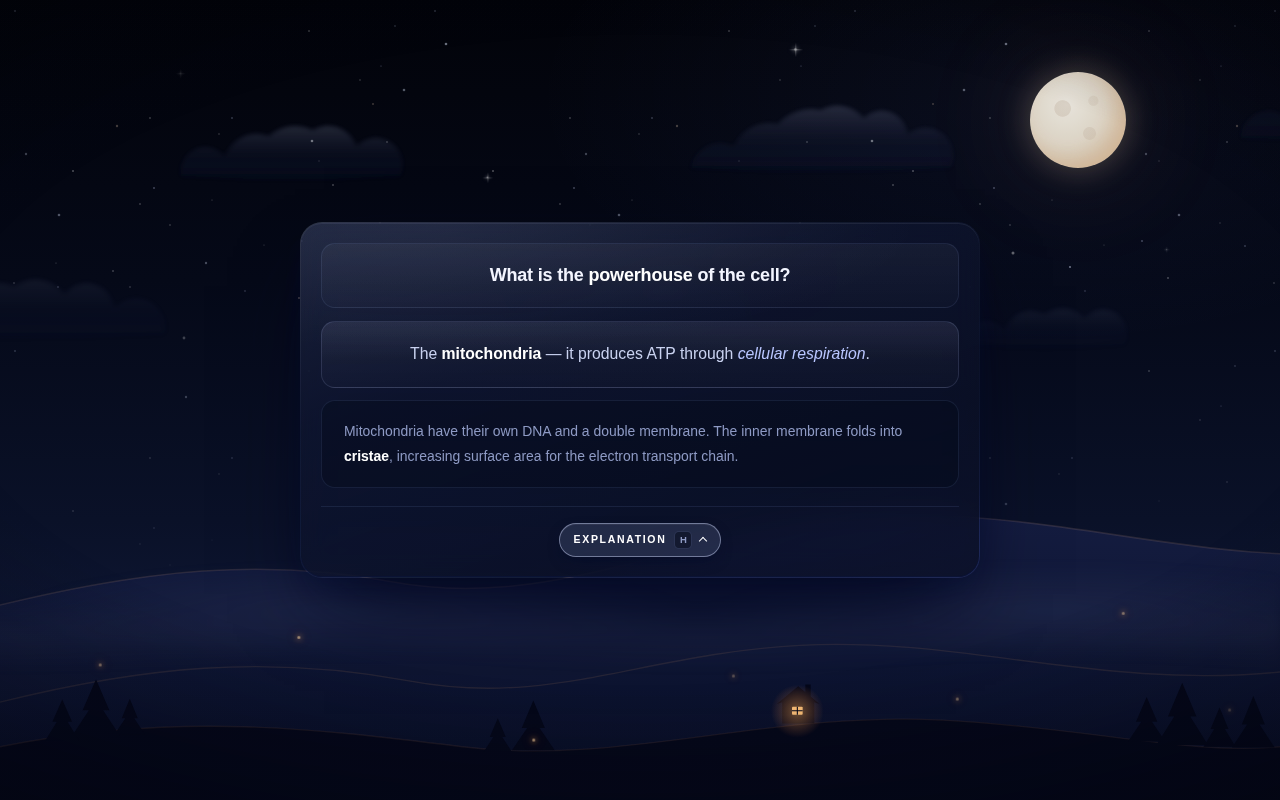
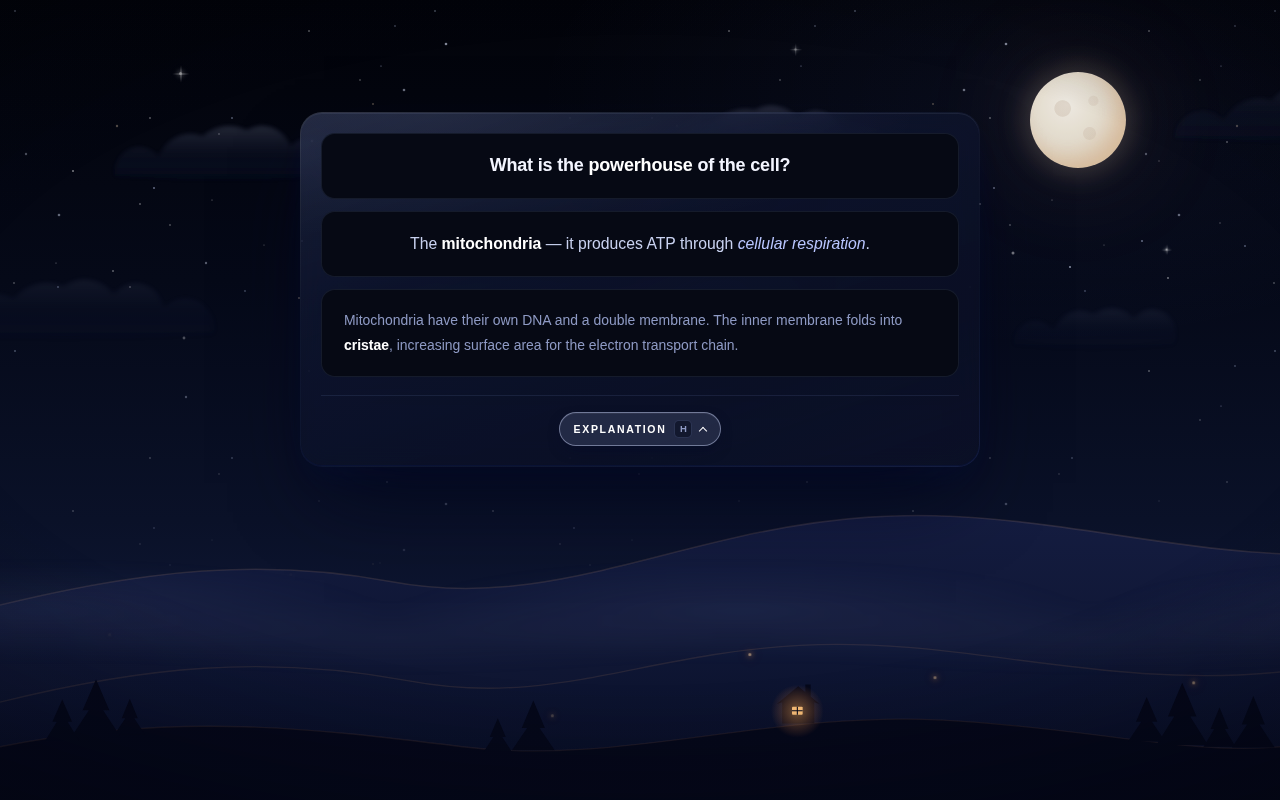
Flat dark content boxes and smoother front-to-back flip
- Question, answer and explanation boxes use one flat dark fill.
- Background scene is moved out of the card container on first render
  and reused, so it no longer restarts or jumps when Anki swaps sides.
- Card is top-anchored so the question stays still while the answer
  opens below it; softer reveal easing; explanation button fades in
  instead of popping.

Claude-Session: https://claude.ai/code/session_01GeAXbBMqDku8YSU6JA8Q3r

Changed region(s): [[0.1562, 0.125, 0.75, 0.4688], [0.2812, 0.5, 0.7188, 0.5938], [0.4375, 0.625, 0.5625, 0.7188]]

diff --git a/styling.css b/styling.css
@@ -38,7 +38,7 @@
   --glass-strong: rgba(8, 12, 30, 0.78);
   --line:         rgba(160, 182, 255, 0.10);
   --line-strong:  rgba(160, 182, 255, 0.18);
-  --block:        rgba(255, 255, 255, 0.035);
+  --block:        #060914;   /* flat fill for question / answer / explanation */
 
   /* Shadows (blue-tinted, never pure black) */
   --shadow-lg: 0 40px 80px -24px rgba(2, 6, 28, 0.9),
@@ -49,6 +49,7 @@
   --radius-lg: 22px;
   --radius-md: 14px;
   --ease-out:  cubic-bezier(0.2, 0.8, 0.2, 1);
+  --ease-soft: cubic-bezier(0.22, 1, 0.36, 1);   /* ease-out-quint */
 
   --font-ui: 'Inter', 'Apple SD Gothic Neo', 'Malgun Gothic', -apple-system,
              BlinkMacSystemFont, 'Segoe UI', Roboto, sans-serif;
@@ -77,13 +78,15 @@ html {
   display: flex;
   flex-direction: column;
   align-items: center;
-  justify-content: center;
+  justify-content: flex-start;
   width: 100% !important;
   max-width: 100vw !important;
   min-height: 100vh;
   min-height: 100dvh;
   margin: 0;
-  padding: 24px 16px !important;
+  /* Top-anchored (not vertically centred) so the question stays exactly
+     where it is when the back side adds the answer below it. */
+  padding: clamp(20px, 14vh, 150px) 16px 32px !important;
   background: transparent !important;
   border: none !important;
   box-shadow: none !important;
@@ -104,7 +107,7 @@ img { max-width: 100%; height: auto; border-radius: 10px; }
 #gm-scene {
   position: fixed;
   inset: 0;
-  z-index: 0;
+  z-index: -1;
   overflow: hidden;
   pointer-events: none;
   background:
@@ -114,6 +117,12 @@ img { max-width: 100%; height: auto; border-radius: 10px; }
     radial-gradient(55% 45% at 80% 12%, rgba(110, 140, 255, 0.06), transparent 70%),
     linear-gradient(180deg, #020309 0%, #050918 35%, #0a1128 65%, #111a3a 88%, #181f45 100%);
 }
+
+/* The template script moves the first scene out of the card container
+   and keeps it alive across flips and cards (see front/back.html).
+   It sits above any freshly rendered copy, so a flip never shows a
+   restarted sky, even for the single frame before the script runs. */
+#gm-scene.gm-scene-live { z-index: 0; }
 
 /* Every scene animation shares one global clock (set by the template
    script) so the sky never "jumps" when Anki flips front → back. */
@@ -331,7 +340,7 @@ img { max-width: 100%; height: auto; border-radius: 10px; }
   z-index: 1;
   width: 100%;
   max-width: 680px;
-  margin: auto;
+  margin: 0 auto;
   padding: 20px;
   border-radius: var(--radius-lg);
   border: 1px solid transparent;
@@ -382,7 +391,7 @@ img { max-width: 100%; height: auto; border-radius: 10px; }
   padding: 18px 22px;
   border-radius: var(--radius-md);
   border: 1px solid var(--line);
-  background: linear-gradient(180deg, rgba(255, 255, 255, 0.045), rgba(255, 255, 255, 0.015));
+  background: var(--block);
   text-align: center;
   overflow-wrap: anywhere;
 }
@@ -400,10 +409,6 @@ img { max-width: 100%; height: auto; border-radius: 10px; }
   line-height: 1.8;
   color: var(--ink-2);
   margin-top: 12px;
-  border-color: rgba(185, 198, 255, 0.14);
-  background:
-    linear-gradient(180deg, rgba(185, 198, 255, 0.06), rgba(185, 198, 255, 0) 60%),
-    linear-gradient(180deg, rgba(255, 255, 255, 0.045), rgba(255, 255, 255, 0.015));
 }
 
 #gm-expl-body {
@@ -411,7 +416,6 @@ img { max-width: 100%; height: auto; border-radius: 10px; }
   line-height: 1.8;
   color: var(--ink-3);
   text-align: left;
-  background: rgba(4, 8, 24, 0.35);
 }
 
 #gm-question b, #gm-answer b, #gm-expl-body b,
@@ -444,12 +448,12 @@ img { max-width: 100%; height: auto; border-radius: 10px; }
 /* Answer reveal: slides open once when the back side loads */
 #gm-back-reveal {
   grid-template-rows: 1fr;
-  animation: gm-reveal 0.45s var(--ease-out) both;
+  animation: gm-reveal 0.5s var(--ease-soft) both;
 }
 #gm-back-reveal .gm-collapse-inner > * {
   opacity: 1;
   transform: none;
-  animation: gm-reveal-fade 0.5s var(--ease-out) both;
+  animation: gm-reveal-fade 0.45s var(--ease-soft) 0.06s both;
 }
 
 @keyframes gm-reveal {
@@ -457,9 +461,14 @@ img { max-width: 100%; height: auto; border-radius: 10px; }
   to   { grid-template-rows: 1fr; }
 }
 @keyframes gm-reveal-fade {
-  from { opacity: 0; transform: translateY(-8px); }
+  from { opacity: 0; transform: translateY(-6px); }
   to   { opacity: 1; transform: none; }
 }
+
+/* The explanation button eases from its dimmed (front) look instead of
+   popping when the back side enables it. */
+.gm-back #gm-expl-btn:not(:disabled) { animation: gm-btn-wake 0.4s ease both; }
+@keyframes gm-btn-wake { from { opacity: 0.35; } to { opacity: 1; } }
 
 /* ════════════════════════════════════════════════
    6. FOOTER: explanation button
@@ -601,7 +610,7 @@ img { max-width: 100%; height: auto; border-radius: 10px; }
    8. RESPONSIVE + ACCESSIBILITY
    ════════════════════════════════════════════════ */
 @media (max-width: 520px) {
-  .card { padding: 14px 10px !important; }
+  .card { padding: clamp(14px, 8vh, 72px) 10px 24px !important; }
   #gm-panel { padding: 14px; border-radius: 18px; font-size: 14px; }
   .gm-block { padding: 14px 16px; }
   #gm-expl-btn .gm-kbd { display: none; }

diff --git a/back.html b/back.html
@@ -60,11 +60,20 @@
 (function () {
   'use strict';
 
-  /* Sync the background animations to a shared clock so the sky
-     continues smoothly between front and back instead of restarting. */
-  var scene = document.getElementById('gm-scene');
-  if (scene) {
-    scene.style.setProperty('--gm-clock', -((Date.now() / 1000) % 86400).toFixed(2) + 's');
+  /* ── Persistent background ──
+     Anki swaps the card HTML on every flip. Moving the first scene out
+     of the card container (to <body>) means it is never torn down, so
+     the sky never restarts or jumps between front, back and next card.
+     Fresh copies from later renders are simply discarded. */
+  var live = document.querySelector('.gm-scene-live');
+  var fresh = document.querySelector('#gm-scene:not(.gm-scene-live)');
+  if (live) {
+    if (fresh) fresh.parentNode.removeChild(fresh);
+  } else if (fresh) {
+    // Shared clock: keeps phase consistent on clients that reload the page per side.
+    fresh.style.setProperty('--gm-clock', -((Date.now() / 1000) % 86400).toFixed(2) + 's');
+    fresh.classList.add('gm-scene-live');
+    document.body.insertBefore(fresh, document.body.firstChild);
   }
 
   /* ── Explanation toggle ──

diff --git a/front.html b/front.html
@@ -43,11 +43,20 @@
 (function () {
   'use strict';
 
-  /* Sync the background animations to a shared clock so the sky
-     continues smoothly between front and back instead of restarting. */
-  var scene = document.getElementById('gm-scene');
-  if (scene) {
-    scene.style.setProperty('--gm-clock', -((Date.now() / 1000) % 86400).toFixed(2) + 's');
+  /* ── Persistent background ──
+     Anki swaps the card HTML on every flip. Moving the first scene out
+     of the card container (to <body>) means it is never torn down, so
+     the sky never restarts or jumps between front, back and next card.
+     Fresh copies from later renders are simply discarded. */
+  var live = document.querySelector('.gm-scene-live');
+  var fresh = document.querySelector('#gm-scene:not(.gm-scene-live)');
+  if (live) {
+    if (fresh) fresh.parentNode.removeChild(fresh);
+  } else if (fresh) {
+    // Shared clock: keeps phase consistent on clients that reload the page per side.
+    fresh.style.setProperty('--gm-clock', -((Date.now() / 1000) % 86400).toFixed(2) + 's');
+    fresh.classList.add('gm-scene-live');
+    document.body.insertBefore(fresh, document.body.firstChild);
   }
 }());
 </script>

diff --git a/README.md b/README.md
@@ -24,8 +24,9 @@ The note type needs the fields **Front**, **Back** and **Explanation**.
 
 ## Features
 
-- **Seamless background** — every scene animation runs off one shared clock, so the
-  sky keeps moving smoothly when the card flips instead of restarting.
+- **Smooth flips** — the background is created once and kept alive across sides and
+  cards (it is never re-rendered, so it never restarts), and the card is top-anchored
+  so the question stays perfectly still while the answer slides open beneath it.
 - **Answer reveal** slides open with pure CSS (no height measuring in JS).
 - **Explanation drawer** — click the button, press **H** on desktop, or bind
   AnkiDroid's *User Action 1* (`userJs1`). The button is disabled when the card has no
